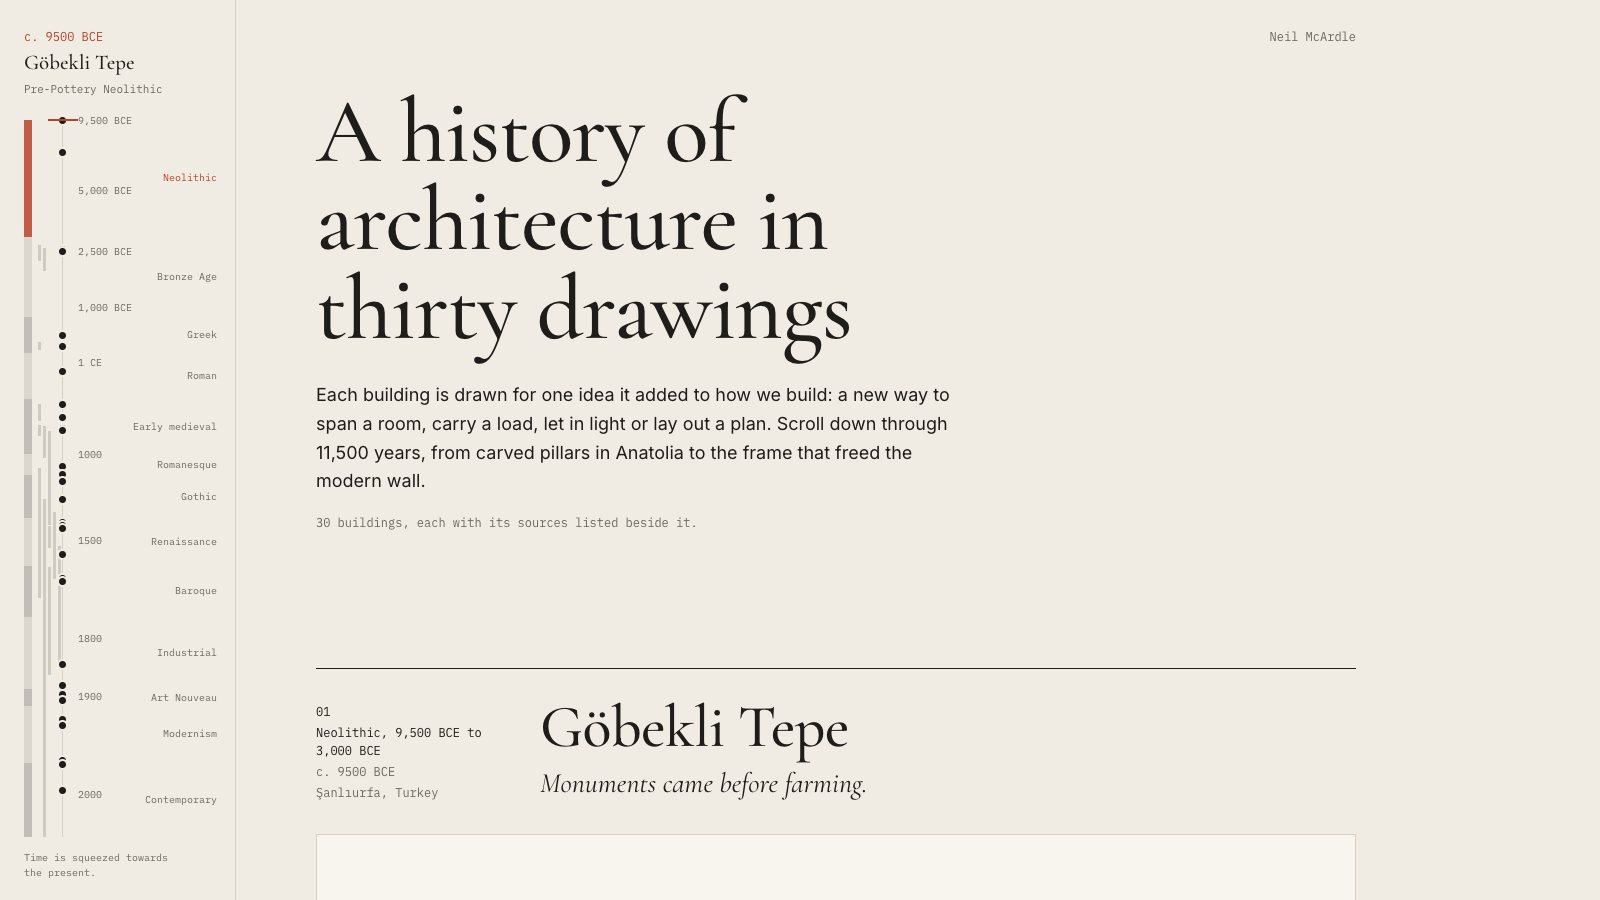
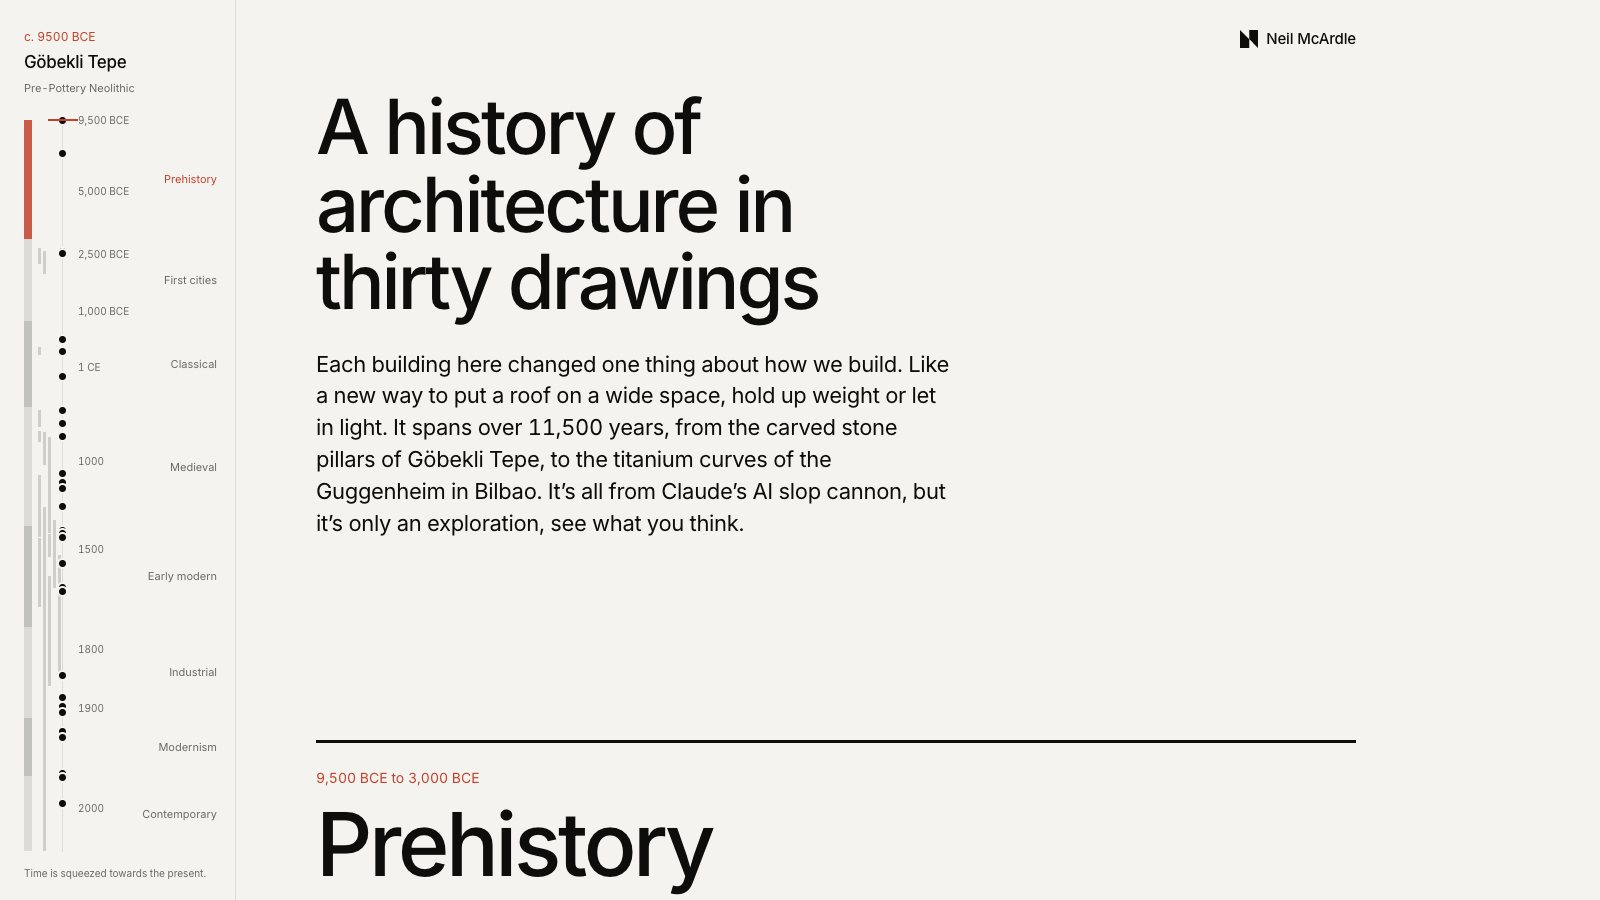
Refresh architecture exploration design
Update the architecture page with a cleaner, more contemporary visual style, refined typography, and a branded home link.

diff --git a/app/explorations/architecture/architecture.module.css b/app/explorations/architecture/architecture.module.css
@@ -1,14 +1,15 @@
 .root {
-  --paper: #f0ece3;
-  --sheet: #f8f5ef;
-  --ink: #1f1d1a;
-  --muted: #6d675d;
-  --rule: #d6cfc2;
-  --red: #b8432c;
-  --ease: cubic-bezier(0.22, 1, 0.36, 1);
-  --serif: var(--font-cormorant), "Cormorant Garamond", Georgia, serif;
-  --mono: var(--font-plex-mono), ui-monospace, monospace;
+  --paper: #f4f3ef;
+  --sheet: #ffffff;
+  --ink: #0d0d0c;
+  --muted: #6c6963;
+  --rule: #dfddd7;
+  --red: #c2412b;
+  --ease: cubic-bezier(0.16, 1, 0.3, 1);
   --sans: var(--font-inter), system-ui, sans-serif;
+  --serif: var(--sans);
+  --mono: var(--sans);
+  --heavy: var(--font-heavy), "Arial Narrow", sans-serif;
 
   display: grid;
   grid-template-columns: 236px minmax(0, 1fr);
@@ -16,6 +17,8 @@
   background: var(--paper);
   color: var(--ink);
   font-family: var(--sans);
+  font-variant-numeric: tabular-nums;
+  -webkit-font-smoothing: antialiased;
 }
 
 .ruler {
@@ -42,9 +45,10 @@
 
 .readName {
   font-family: var(--serif);
-  font-size: 21px;
+  font-size: 17px;
   font-weight: 500;
   line-height: 1.05;
+  letter-spacing: -0.02em;
 }
 
 .readTradition {
@@ -93,7 +97,7 @@
   right: 18px;
   transform: translateY(-50%);
   font-family: var(--mono);
-  font-size: 10px;
+  font-size: 11px;
   line-height: 1;
   color: var(--muted);
   white-space: nowrap;
@@ -246,10 +250,12 @@ a.tick:focus-visible {
   max-width: 100%;
   overflow: hidden;
   font-family: var(--serif);
-  font-size: 20px;
+  font-size: 17px;
   line-height: 1.2;
   white-space: nowrap;
   text-overflow: ellipsis;
+  font-weight: 500;
+  letter-spacing: -0.02em;
 }
 
 .currentName svg {
@@ -319,13 +325,24 @@ a.tick:focus-visible {
 }
 
 .home {
+  display: inline-flex;
+  align-items: center;
+  gap: 8px;
   position: absolute;
   top: 28px;
   right: 0;
   font-family: var(--mono);
-  font-size: 12px;
-  color: var(--muted);
+  font-size: 15px;
+  color: var(--ink);
   text-decoration: none;
+  font-weight: 500;
+  letter-spacing: -0.01em;
+}
+
+.home svg {
+  width: 18px;
+  height: 18px;
+  fill: currentColor;
 }
 
 .home:hover {
@@ -336,18 +353,19 @@ a.tick:focus-visible {
   max-width: 13ch;
   margin: 0;
   font-family: var(--serif);
-  font-size: clamp(46px, 6.4vw, 92px);
+  font-size: clamp(40px, 5.6vw, 76px);
   font-weight: 500;
-  line-height: 0.96;
-  letter-spacing: -0.012em;
+  line-height: 1.02;
+  letter-spacing: -0.04em;
   text-wrap: balance;
 }
 
 .lede {
-  max-width: 58ch;
+  max-width: 46ch;
   margin: 28px 0 0;
-  font-size: 18px;
-  line-height: 1.6;
+  font-size: clamp(19px, 1.9vw, 22px);
+  line-height: 1.45;
+  letter-spacing: -0.015em;
   text-wrap: pretty;
 }
 
@@ -368,17 +386,17 @@ a.tick:focus-visible {
 .periodDates {
   margin: 0;
   font-family: var(--mono);
-  font-size: 13px;
+  font-size: 14px;
   color: var(--red);
 }
 
 .periodName {
   margin: 12px 0 0;
   font-family: var(--serif);
-  font-size: clamp(48px, 8vw, 112px);
+  font-size: clamp(40px, 6.4vw, 88px);
   font-weight: 500;
-  line-height: 0.95;
-  letter-spacing: -0.02em;
+  line-height: 1;
+  letter-spacing: -0.04em;
   text-wrap: balance;
 }
 
@@ -412,26 +430,32 @@ a.tick:focus-visible {
 }
 
 .number {
+  margin-bottom: 10px;
+  font-family: var(--heavy);
+  font-size: 44px;
+  font-weight: 800;
+  line-height: 0.8;
   color: var(--ink);
 }
 
 .name {
   margin: 0;
   font-family: var(--serif);
-  font-size: clamp(30px, 3vw, 42px);
+  font-size: clamp(24px, 2.4vw, 32px);
   font-weight: 500;
-  line-height: 1;
-  letter-spacing: -0.01em;
+  line-height: 1.1;
+  letter-spacing: -0.03em;
 }
 
 .idea {
   max-width: 30ch;
   margin: 10px 0 0;
   font-family: var(--serif);
-  font-size: clamp(22px, 2.2vw, 28px);
-  font-style: italic;
-  line-height: 1.2;
+  font-size: clamp(18px, 1.7vw, 21px);
+  line-height: 1.4;
   text-wrap: balance;
+  color: var(--muted);
+  letter-spacing: -0.015em;
 }
 
 .lower {

diff --git a/app/explorations/architecture/page.tsx b/app/explorations/architecture/page.tsx
@@ -1,5 +1,6 @@
 import type { Metadata, Viewport } from "next";
 import { share } from "../../shared-metadata";
+import { heavy } from "../../_signature/fonts";
 import Architecture from "./Architecture";
 
 const DESCRIPTION =
@@ -17,14 +18,14 @@ export const metadata: Metadata = {
 };
 
 export const viewport: Viewport = {
-  themeColor: "#f0ece3",
+  themeColor: "#f4f3ef",
 };
 
 export default function ArchitecturePage() {
   return (
-    <>
-      <style>{"html,body{background:#f0ece3}"}</style>
+    <div className={heavy.variable}>
+      <style>{"html,body{background:#f4f3ef}"}</style>
       <Architecture />
-    </>
+    </div>
   );
 }

diff --git a/app/explorations/architecture/Architecture.tsx b/app/explorations/architecture/Architecture.tsx
@@ -389,6 +389,10 @@ export default function Architecture() {
       <main className={styles.content}>
         <header className={styles.intro}>
           <Link href="/" className={styles.home}>
+            <svg viewBox="18 18 27 27" aria-hidden="true">
+              <path d="M45 45L32 31.2985V18H45V45Z" />
+              <path d="M18 18L32 31.6343L32 45L18 45L18 18Z" />
+            </svg>
             Neil McArdle
           </Link>
           <h1 className={styles.title}>
